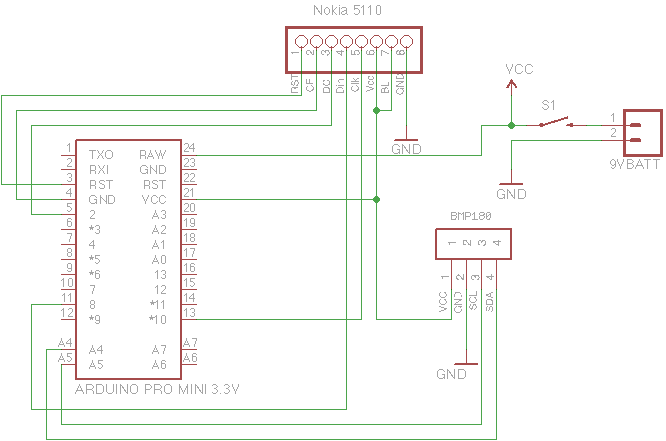
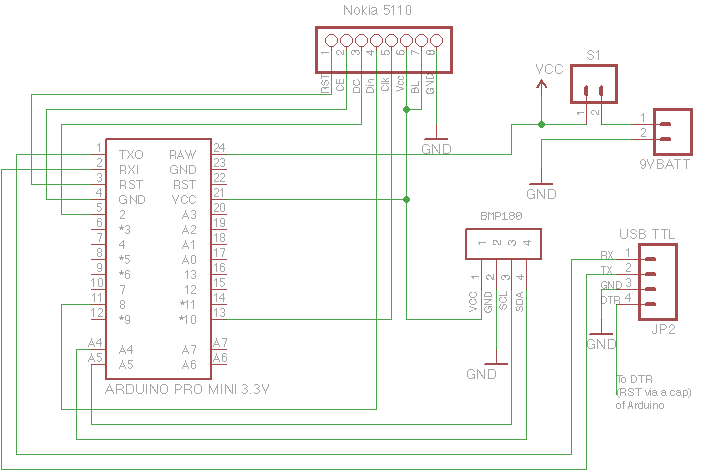
updated README, schematic, enclosure

diff --git a/README.md b/README.md
@@ -1,1 +1,5 @@
 A T.A.P (Temperature/Altitude/Pressure) display based on Arduino, BMP180, and a Nokia 5110 LCD module.
+
+![BMP180 Schematic](circuit.png "BMP180 Schematic")
+<br />
+<br />
